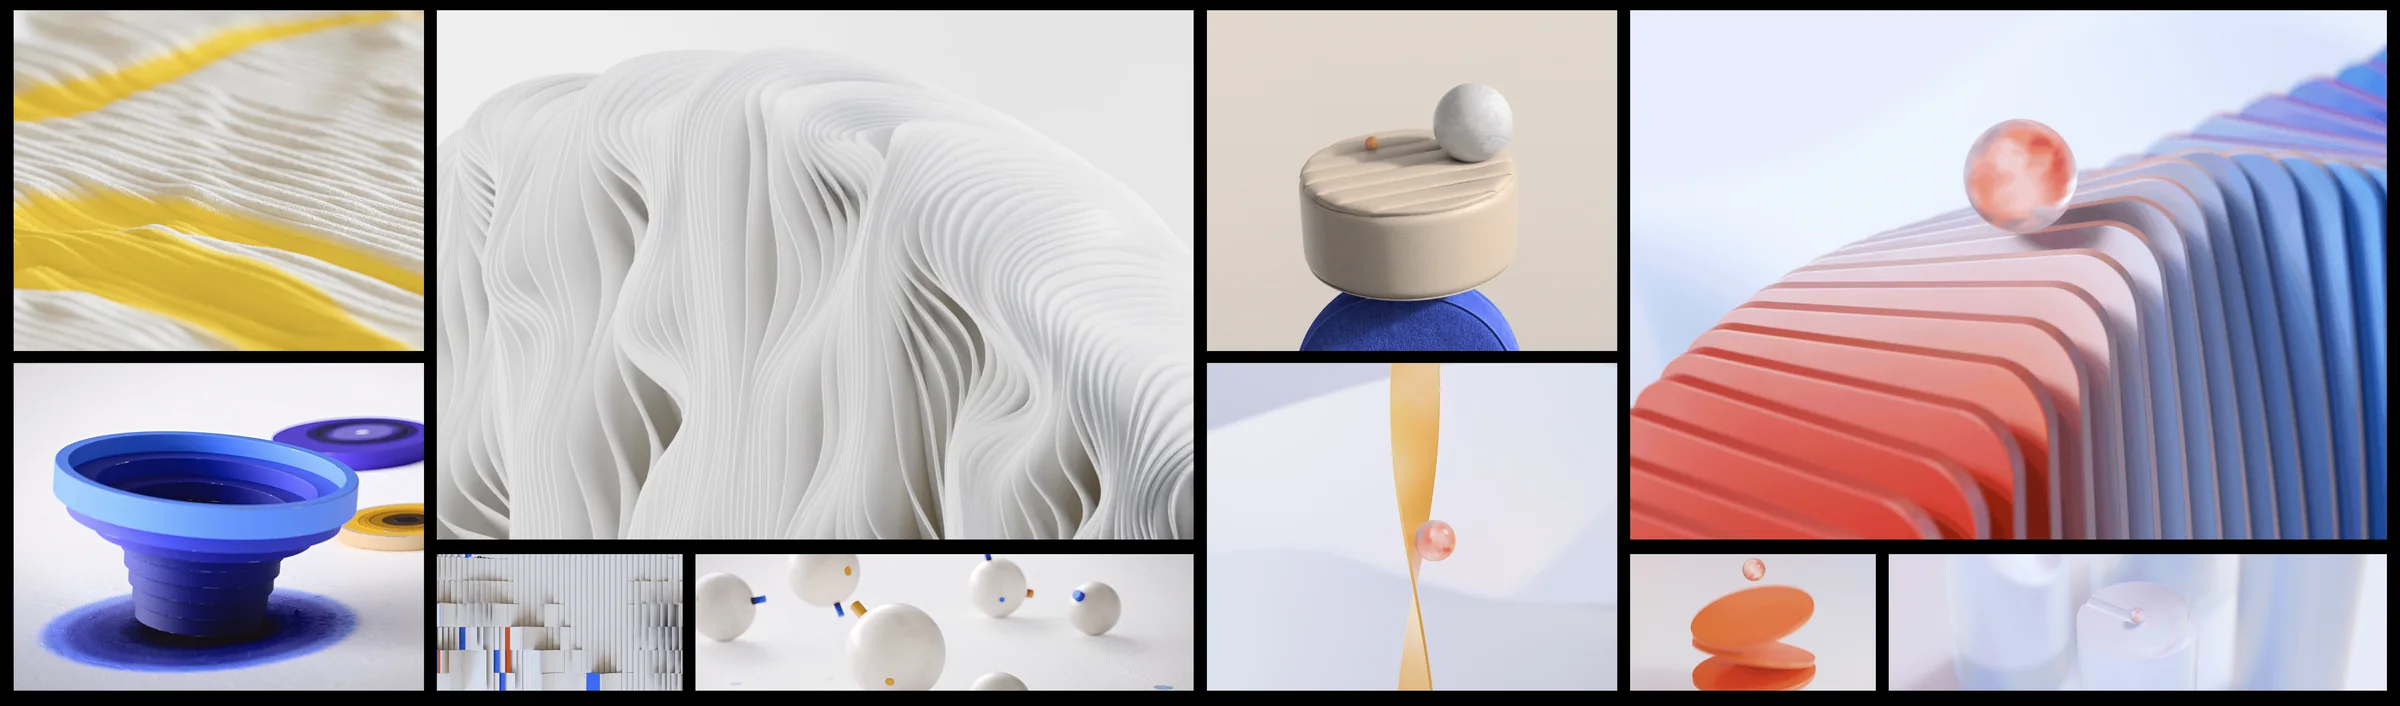
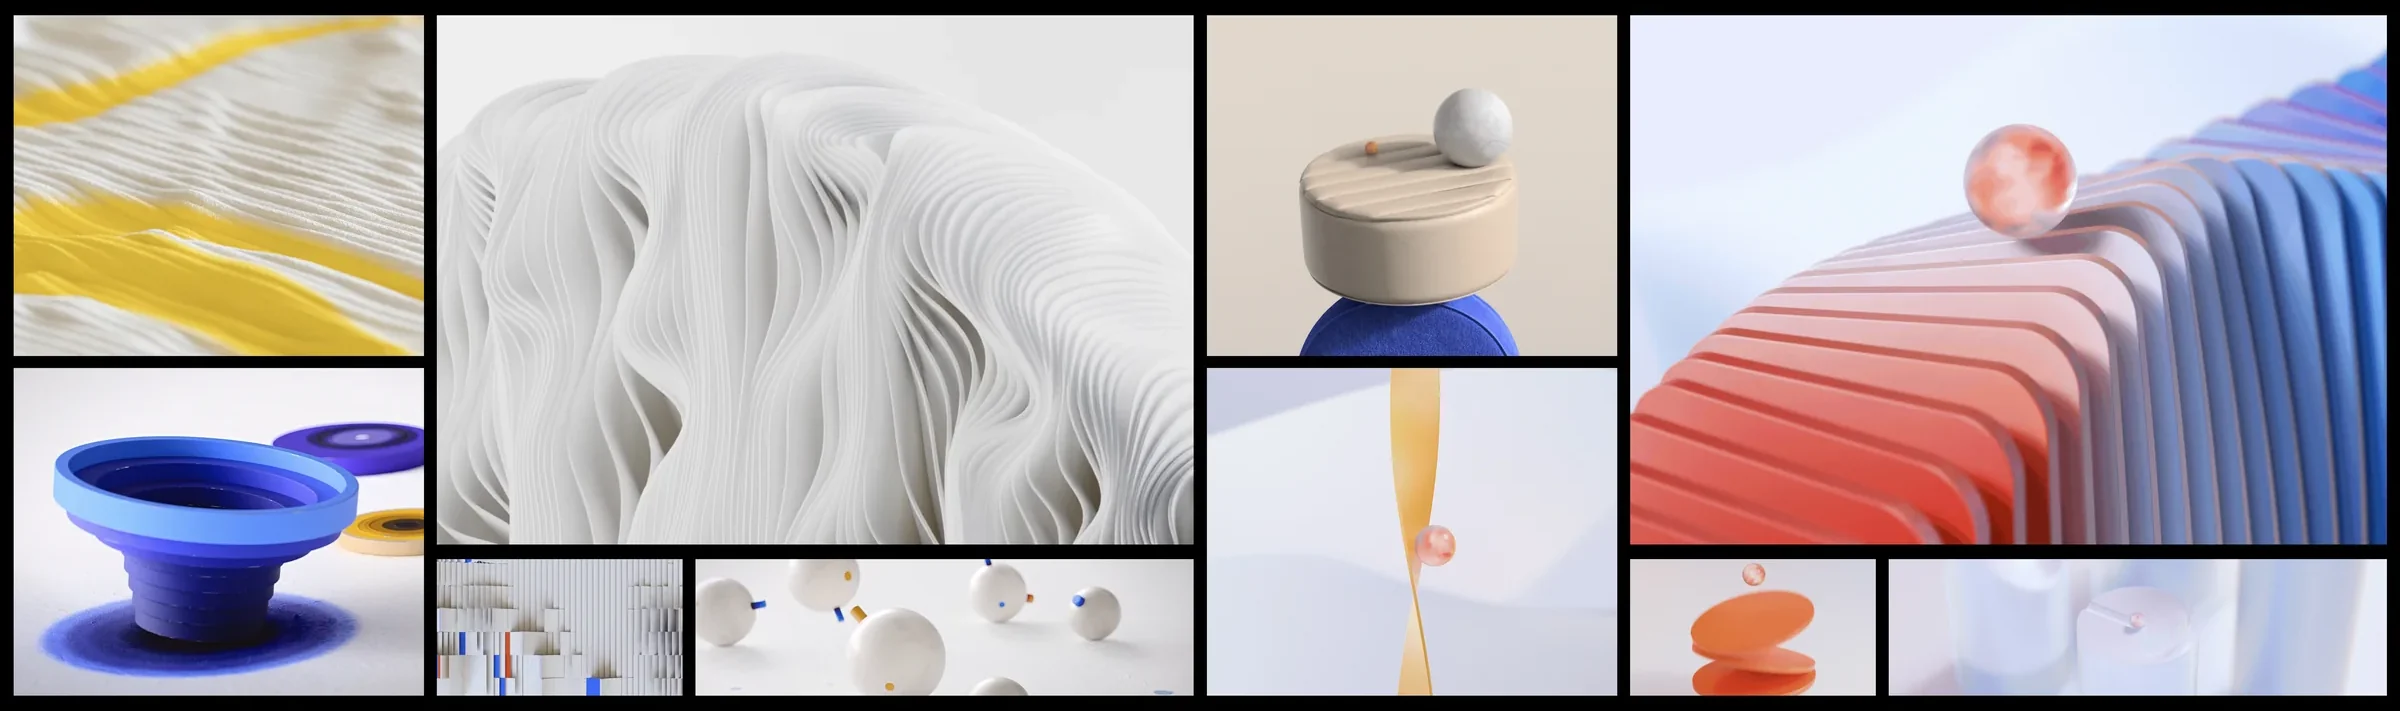
Project captions; films page stills, inset videos and facts
- Captions where they help: the SAIF diagrams, the report spreads, the
  2022 summit, and the films' stills, style frames and brand system;
  caption phrases stay whole on phones
- Films: videos inset two columns a side, cropped of the player's black
  slivers; nine-still sheets for both films; the AI Safety film on
  ai.google in a browser window; heavier top border on the style frames;
  About facts built out

diff --git a/projects/films.html b/projects/films.html
@@ -63,11 +63,13 @@
   <!-- The photos, in rows of one, two or three. -->
   <section style="padding-top:0">
     <div class="wrap photos">
-      <div class="prow"><figure class="video" style="--r:1.778"><div class="frame"><iframe src="https://www.youtube.com/embed/94FB_h5-pE8" title="Safety Anthem Film — Google" allow="accelerometer; autoplay; clipboard-write; encrypted-media; gyroscope; picture-in-picture; web-share" allowfullscreen loading="lazy"></iframe></div><figcaption class="label">Safety Anthem</figcaption></figure></div>
-      <div class="prow"><figure class="video" style="--r:1.778"><div class="frame"><iframe src="https://www.youtube.com/embed/-i6XyOLot_o" title="AI Safety Film — Google" allow="accelerometer; autoplay; clipboard-write; encrypted-media; gyroscope; picture-in-picture; web-share" allowfullscreen loading="lazy"></iframe></div><figcaption class="label">AI Safety Film</figcaption></figure></div>
-      <div class="prow"><figure style="--r:2.623"><img src="../assets/work/ai-safety/finished-stills.jpg" alt="Contact sheet of finished stills from the AI Safety film, including Google security leaders Heather Adkins and Wieland Holfelder" width="1600" height="610" loading="lazy"></figure></div>
-      <div class="prow"><figure style="--r:3.399"><img src="../assets/work/safety-anthem/style-frames.webp" alt="Style frames for the films: soft sculptural forms in white, yellow, blue and coral, from rippled paper layers to balanced discs and spheres" width="2400" height="706" loading="lazy"></figure></div>
-      <div class="prow"><figure style="--r:1.964"><img src="../assets/work/secure-ai-framework/pss-brand-system.jpg" alt="A pattern from Google’s Privacy, Safety &amp; Security brand system: bands of red, yellow, green and blue with circles and arches" width="1200" height="611" loading="lazy"></figure></div>
+      <div class="prow inset"><figure class="video" style="--r:1.778"><div class="frame"><iframe src="https://www.youtube.com/embed/94FB_h5-pE8" title="Safety Anthem Film — Google" allow="accelerometer; autoplay; clipboard-write; encrypted-media; gyroscope; picture-in-picture; web-share" allowfullscreen loading="lazy"></iframe></div><figcaption class="label">Safety Anthem</figcaption></figure></div>
+      <div class="prow inset"><figure class="video" style="--r:1.778"><div class="frame"><iframe src="https://www.youtube.com/embed/-i6XyOLot_o" title="AI Safety Film — Google" allow="accelerometer; autoplay; clipboard-write; encrypted-media; gyroscope; picture-in-picture; web-share" allowfullscreen loading="lazy"></iframe></div><figcaption class="label">AI Safety Film</figcaption></figure></div>
+      <div class="prow"><figure style="--r:1.753"><img src="../assets/work/safety-anthem/finished-stills.jpg?v=2" alt="Contact sheet of nine finished stills from the Safety Anthem film, in order: a wide view of the whole internet; hexagon tiles; blue blocks and a steel cone; the hero in blue, red, yellow and green; the internet protected in glass cubes; harmful red forms in a stream of parts; the red forms bursting apart as they are cleaned up; generative AI as a ring of blue discs; and the Safer with Google sign-off" width="2400" height="1369" loading="lazy"><figcaption class="label">Finished stills, Safety Anthem</figcaption></figure></div>
+      <div class="prow"><figure style="--r:3.376"><img src="../assets/work/safety-anthem/style-frames.webp" alt="Style frames for the Safety Anthem film: soft sculptural forms in white, yellow, blue and coral, from rippled paper layers to balanced discs and spheres" width="2400" height="711" loading="lazy"><figcaption class="label">Style frames, Safety Anthem</figcaption></figure></div>
+      <div class="prow"><figure style="--r:1.758"><img src="../assets/work/ai-safety/finished-stills.jpg?v=2" alt="Contact sheet of finished stills from the AI Safety film, including Google security leaders Heather Adkins and Wieland Holfelder, a plane landing at dusk, a face dissolving into particles, and a single attack thread piercing a glowing surface" width="1600" height="910" loading="lazy"><figcaption class="label">Finished stills, AI Safety Film</figcaption></figure></div>
+      <div class="prow inset"><figure style="--r:1.074"><img src="../assets/work/ai-safety/ai-google-page.webp" alt="The AI Safety film on Google AI’s Privacy and security page, under the heading Protecting your privacy with industry-leading security, with the title Strengthening digital security with AI" width="2004" height="1866" loading="lazy"><figcaption class="label">AI Safety Film on ai.google</figcaption></figure></div>
+      <div class="prow"><figure style="--r:1.964"><img src="../assets/work/secure-ai-framework/pss-brand-system.jpg" alt="A pattern from Google’s Privacy, Safety &amp; Security brand system: bands of red, yellow, green and blue with circles and arches" width="1200" height="611" loading="lazy"><figcaption class="label"><span class="nw">The Privacy, Safety &amp;&nbsp;Security</span> <span class="nw">brand system</span></figcaption></figure></div>
       <div class="prow"><figure style="--r:1.778"><img src="../assets/work/safety-anthem/hero.jpg" alt="Still from the Safety Anthem film, a brand film for Google's safety leadership" width="1280" height="720" loading="lazy"></figure><figure style="--r:1.778"><img src="../assets/work/ai-safety/hero.jpg" alt="Still from the AI Safety film showing a wireframe globe representing AI-driven digital security" width="1280" height="720" loading="lazy"></figure></div>
     </div>
   </section>
@@ -77,7 +79,7 @@
     <div class="wrap about">
       <p class="sec-mark label">About</p>
       <div class="about-copy"><p>Concepted and directed a motion graphics film built to establish external awareness of Google’s safety leadership — a brand-level statement for an audience that rarely sees the work behind the word “safety.” Creative direction and concept development carried through cross-functional sign-off, and the film was positioned as a flagship brand asset for the broader safety narrative.</p><p>Concepted and directed a film on strengthening digital security with AI, published on YouTube and ai.google — translating technical AI safety work, including Google’s Secure AI Framework and research on the “defender’s dilemma,” into a public-facing brand statement. End-to-end creative direction from concept through final cut.</p></div>
-      <dl class="facts"><div><dt class="label">Role</dt><dd>Concept development, creative direction, direction to final cut</dd></div></dl>
+      <dl class="facts"><div><dt class="label">Role</dt><dd>Concept development, creative direction, direction to final cut</dd></div><div><dt class="label">Films</dt><dd>Safety Anthem, a motion graphics brand film; AI Safety Film, interviews with Google security leaders set in motion graphics</dd></div><div><dt class="label">Featuring</dt><dd>Heather Adkins, VP, Security Engineering; Wieland Holfelder, VP, Engineering and Site Lead, Google Munich</dd></div><div><dt class="label">Published on</dt><dd>YouTube and ai.google</dd></div><div><dt class="label">Watch the films</dt><dd><ul class="links"><li><a href="https://youtu.be/94FB_h5-pE8" target="_blank" rel="noopener">Safety Anthem ↗</a></li><li><a href="https://youtu.be/-i6XyOLot_o" target="_blank" rel="noopener">AI Safety Film ↗</a></li></ul></dd></div></dl>
     </div>
   </section>
 

diff --git a/projects/security-reporting.html b/projects/security-reporting.html
@@ -63,10 +63,10 @@
   <!-- The photos, in rows of one, two or three. -->
   <section style="padding-top:0">
     <div class="wrap photos">
-      <div class="prow"><figure style="--r:1.333"><img src="../assets/work/security-reporting/fog-of-war-10-11.jpg" alt="Spread from Fog of War: an overview of Russia-linked threat actors, their aliases, what they do, the nations they target and their primary targets" width="2400" height="1800" loading="lazy"></figure></div>
-      <div class="prow"><figure style="--r:1.333"><img src="../assets/work/security-reporting/defenders-dilemma-p3.jpg" alt="Spread from Secure, Empower, Advance: the executive summary, with a diagram of one defender facing many attackers, beside a pull quote on AI and the Defender’s Dilemma" width="2400" height="1800" loading="lazy"></figure><figure style="--r:1.333"><img src="../assets/work/security-reporting/defenders-dilemma-p4.jpg" alt="Spread from Secure, Empower, Advance: how AI can tilt the scales toward defenders, and the paper’s three recommendations" width="2400" height="1800" loading="lazy"></figure></div>
-      <div class="prow"><figure style="--r:1.333"><img src="../assets/work/security-reporting/fog-of-war-12-13.jpg" alt="Spread from Fog of War: phishing campaigns by government-backed attackers over 2021 and 2022, the most targeted domains, and the top Ukrainian government and military targets" width="2400" height="1800" loading="lazy"></figure><figure style="--r:1.333"><img src="../assets/work/security-reporting/fog-of-war-14-15.jpg" alt="Spread from Fog of War: a chart of government-backed attacker activity targeting users in NATO countries, beside a pull quote on the rise in targeting" width="2400" height="1800" loading="lazy"></figure></div>
-      <div class="prow"><figure style="--r:1.333"><img src="../assets/work/security-reporting/buying-spying-p6.jpg" alt="Spread from Buying Spying: a profile of María Luisa Aguilar Rodríguez, a human rights researcher targeted with commercial spyware" width="2400" height="1800" loading="lazy"></figure><figure style="--r:1.006"><img src="../assets/work/security-reporting/buying-spying-infographic-dark.jpg" alt="Infographic from Buying Spying: how commercial spyware reaches a target in four steps, from delivery and installation to gathering and exfiltrating data" width="2000" height="1989" loading="lazy"></figure></div>
+      <div class="prow"><figure style="--r:1.333"><img src="../assets/work/security-reporting/fog-of-war-10-11.jpg" alt="Spread from Fog of War: an overview of Russia-linked threat actors, their aliases, what they do, the nations they target and their primary targets" width="2400" height="1800" loading="lazy"><figcaption class="label">Fog of War</figcaption></figure></div>
+      <div class="prow"><figure style="--r:1.333"><img src="../assets/work/security-reporting/defenders-dilemma-p3.jpg" alt="Spread from Secure, Empower, Advance: the executive summary, with a diagram of one defender facing many attackers, beside a pull quote on AI and the Defender’s Dilemma" width="2400" height="1800" loading="lazy"><figcaption class="label">Secure, Empower, Advance</figcaption></figure><figure style="--r:1.333"><img src="../assets/work/security-reporting/defenders-dilemma-p4.jpg" alt="Spread from Secure, Empower, Advance: how AI can tilt the scales toward defenders, and the paper’s three recommendations" width="2400" height="1800" loading="lazy"></figure></div>
+      <div class="prow"><figure style="--r:1.333"><img src="../assets/work/security-reporting/fog-of-war-12-13.jpg" alt="Spread from Fog of War: phishing campaigns by government-backed attackers over 2021 and 2022, the most targeted domains, and the top Ukrainian government and military targets" width="2400" height="1800" loading="lazy"><figcaption class="label">Fog of War</figcaption></figure><figure style="--r:1.333"><img src="../assets/work/security-reporting/fog-of-war-14-15.jpg" alt="Spread from Fog of War: a chart of government-backed attacker activity targeting users in NATO countries, beside a pull quote on the rise in targeting" width="2400" height="1800" loading="lazy"></figure></div>
+      <div class="prow"><figure style="--r:1.333"><img src="../assets/work/security-reporting/buying-spying-p6.jpg" alt="Spread from Buying Spying: a profile of María Luisa Aguilar Rodríguez, a human rights researcher targeted with commercial spyware" width="2400" height="1800" loading="lazy"><figcaption class="label">Buying Spying</figcaption></figure><figure style="--r:1.006"><img src="../assets/work/security-reporting/buying-spying-infographic-dark.jpg" alt="Infographic from Buying Spying: how commercial spyware reaches a target in four steps, from delivery and installation to gathering and exfiltrating data" width="2000" height="1989" loading="lazy"></figure></div>
     </div>
   </section>
 

diff --git a/projects/safer-with-google-summit.html b/projects/safer-with-google-summit.html
@@ -66,7 +66,7 @@
       <div class="prow"><figure class="framed" style="--r:1.778"><img src="../assets/work/safer-with-google-summit/summit-recap.gif" alt="Animated recap clip from the Safer with Google Summit" width="480" height="270" loading="lazy"></figure></div>
       <div class="prow"><figure style="--r:2.091"><img src="../assets/work/safer-with-google-summit/speaker-qa.webp" alt="A summit session from the back of the room: a full audience facing the stage, a remote presenter on the screen" width="1922" height="919" loading="lazy"></figure><figure style="--r:0.907"><img src="../assets/work/safer-with-google-summit/speaker-duo.webp" alt="Two speakers presenting together on the summit stage" width="823" height="907" loading="lazy"></figure></div>
       <div class="prow"><figure style="--r:1.917"><img src="../assets/work/safer-with-google-summit/audience.webp" alt="Attendee taking notes during a summit session" width="2880" height="1502" loading="lazy"></figure><figure style="--r:1.917"><img src="../assets/work/safer-with-google-summit/meetup.webp" alt="Attendees mingling in the hallway between sessions" width="2880" height="1502" loading="lazy"></figure></div>
-      <div class="prow"><figure style="--r:1.127"><img src="../assets/work/safer-with-google-summit/notebook-2022.webp" alt="2022 Safer with Google Summit branded notebook" width="1217" height="1080" loading="lazy"></figure><figure style="--r:0.651"><img src="../assets/work/safer-with-google-summit/elevator-2022.webp" alt="Safer with Google Summit branding wrapping a three-story lobby elevator shaft" width="703" height="1080" loading="lazy"></figure><figure style="--r:1.778"><img src="../assets/work/safer-with-google-summit/white-tee-2022.webp" alt="2022 Safer with Google Summit branded t-shirt" width="1920" height="1080" loading="lazy"></figure></div>
+      <div class="prow"><figure style="--r:1.127"><img src="../assets/work/safer-with-google-summit/notebook-2022.webp" alt="2022 Safer with Google Summit branded notebook" width="1217" height="1080" loading="lazy"><figcaption class="label">2022 summit branding</figcaption></figure><figure style="--r:0.651"><img src="../assets/work/safer-with-google-summit/elevator-2022.webp" alt="Safer with Google Summit branding wrapping a three-story lobby elevator shaft" width="703" height="1080" loading="lazy"></figure><figure style="--r:1.778"><img src="../assets/work/safer-with-google-summit/white-tee-2022.webp" alt="2022 Safer with Google Summit branded t-shirt" width="1920" height="1080" loading="lazy"></figure></div>
       <div class="prow"><figure style="--r:2.449"><img src="../assets/work/safer-with-google-summit/android-collectible.webp" alt="Safer with Google branded Android mini collectible, packaging, and figure" width="1920" height="784" loading="lazy"></figure></div>
       <div class="prow"><figure style="--r:0.967"><img src="../assets/work/safer-with-google-summit/speaker-permissions.webp" alt="A speaker on the summit stage beside a slide of browser privacy topics" width="702" height="726" loading="lazy"></figure><figure style="--r:1.553"><img src="../assets/work/safer-with-google-summit/speaker-keynote.webp" alt="A speaker in front of the summit’s Safer with Google shield on the main screen" width="1115" height="718" loading="lazy"></figure><figure style="--r:1.265"><img src="../assets/work/safer-with-google-summit/speaker-encryption.webp" alt="A speaker presenting on fully homomorphic encryption at the summit" width="906" height="716" loading="lazy"></figure></div>
     </div>

diff --git a/projects/secure-ai-framework.html b/projects/secure-ai-framework.html
@@ -64,9 +64,9 @@
   <section style="padding-top:0">
     <div class="wrap photos">
       <div class="prow"><figure style="--r:4.24"><img src="../assets/work/secure-ai-framework/saif-masthead.webp" alt="Masthead from saif.google: Google’s Secure AI Framework, a practitioner’s guide to navigating AI security" width="2400" height="566" loading="lazy"></figure></div>
-      <div class="prow flush"><figure style="--r:1.642"><img src="../assets/work/secure-ai-framework/risk-map-interactive.webp" alt="The interactive SAIF Risk Map on saif.google, beside its introduction and a Start tour button" width="2400" height="1462" loading="lazy"></figure></div>
-      <div class="prow"><figure style="--r:2.327"><img src="../assets/work/secure-ai-framework/data-poisoning-stages.webp" alt="One risk on the map, data poisoning, in three stages: where it’s introduced across the data lifecycle, where it’s exposed in processing, training and the model, and where it’s mitigated early in development" width="3200" height="1375" loading="lazy"></figure></div>
-      <div class="prow"><figure style="--r:0.385"><img src="../assets/work/secure-ai-framework/risk-map-legend-vertical.webp" alt="The ways into the map on saif.google, stacked: components, risks, controls, an AI development primer and a risk self-assessment" width="925" height="2400" loading="lazy"></figure><figure style="--r:0.831"><img src="../assets/work/secure-ai-framework/cosai-sponsors.webp" alt="The Coalition for Secure AI and its sponsors, among them Google, IBM, Meta, Microsoft, NVIDIA, Amazon, Anthropic, Cisco and OpenAI" width="1600" height="1925" loading="lazy"></figure></div>
+      <div class="prow flush"><figure style="--r:1.642"><img src="../assets/work/secure-ai-framework/risk-map-interactive.webp" alt="The interactive SAIF Risk Map on saif.google, beside its introduction and a Start tour button" width="2400" height="1462" loading="lazy"><figcaption class="label">The risk map on saif.google</figcaption></figure></div>
+      <div class="prow"><figure style="--r:2.327"><img src="../assets/work/secure-ai-framework/data-poisoning-stages.webp" alt="One risk on the map, data poisoning, in three stages: where it’s introduced across the data lifecycle, where it’s exposed in processing, training and the model, and where it’s mitigated early in development" width="3200" height="1375" loading="lazy"><figcaption class="label"><span class="nw">One risk, data poisoning:</span> <span class="nw">where it gets in, shows up</span> <span class="nw">and can be&nbsp;stopped</span></figcaption></figure></div>
+      <div class="prow"><figure style="--r:0.385"><img src="../assets/work/secure-ai-framework/risk-map-legend-vertical.webp" alt="The ways into the map on saif.google, stacked: components, risks, controls, an AI development primer and a risk self-assessment" width="925" height="2400" loading="lazy"><figcaption class="label">Ways into the map</figcaption></figure><figure style="--r:0.831"><img src="../assets/work/secure-ai-framework/cosai-sponsors.webp" alt="The Coalition for Secure AI and its sponsors, among them Google, IBM, Meta, Microsoft, NVIDIA, Amazon, Anthropic, Cisco and OpenAI" width="1600" height="1925" loading="lazy"><figcaption class="label"><span class="nw">The Coalition for Secure&nbsp;AI,</span> <span class="nw">where the map is now&nbsp;maintained</span></figcaption></figure></div>
     </div>
   </section>
 

diff --git a/projects/project.css b/projects/project.css
@@ -167,10 +167,13 @@ section{padding-block:clamp(48px, 7vw, 96px) 0;}
 .photos .framed{display:flex; justify-content:center;}   /* a low-resolution clip, kept small rather than stretched, */
 .photos .framed img{width:auto; max-width:55%; box-sizing:border-box; border:calc((100cqw - 2 * var(--col-gap)) / 64) solid var(--ink);}   /* in an ink rule as heavy as the notebook photo's frame on screen: 60 of its 1,217px, the notebook a third of its three-across row (1.127 of 3.556) */
 @media (max-width:600px){ .photos .framed img{border-width:calc(100cqw * 60 / 1217);} }   /* stacked, the notebook takes the full column */
+.photos .inset{padding-inline:calc(2 * ((100% - 11 * var(--col-gap)) / 12 + var(--col-gap)));}   /* a row set in from each side by two columns of the 12 */
+@media (max-width:600px){ .photos .inset{padding-inline:0;} }   /* phones: full width */
 .photos .flush{margin-top:calc(-1 * var(--col-gap));}   /* a row that reads on from the one above, with no gap between them */
-.photos .video .frame{position:relative; aspect-ratio:16 / 9; background:var(--ink);}
-.photos .video iframe{position:absolute; inset:0; width:100%; height:100%; border:0;}
+.photos .video .frame{position:relative; aspect-ratio:16 / 9; background:var(--ink); overflow:hidden;}
+.photos .video iframe{position:absolute; inset:-2px; width:calc(100% + 4px); height:calc(100% + 4px); border:0;}   /* a touch larger than its frame, cropped: the player's sliver of black, where the frame's 16:9 doesn't land on whole pixels, falls outside */
 .photos figcaption{margin-top:10px; color:var(--ink-soft);}
+.photos figcaption .nw{white-space:nowrap;}   /* captions are short: their phrases stay whole on phones too, so lines break only between them */
 /* To redo: a picture that still has the old rounded corners, marked so it isn't mistaken for finished. */
 .redo::after{content:"To redo · square corners"; position:absolute; left:50%; top:50%; transform:translate(-50%, -50%) rotate(-8deg); padding:.4em .9em; background:var(--red); color:var(--paper); font-family:var(--mono); font-size:clamp(.8rem, .6rem + 1vw, 1.3rem); font-weight:500; letter-spacing:.08em; text-transform:uppercase; white-space:nowrap; pointer-events:none;}
 .redo > img{opacity:.55;}
